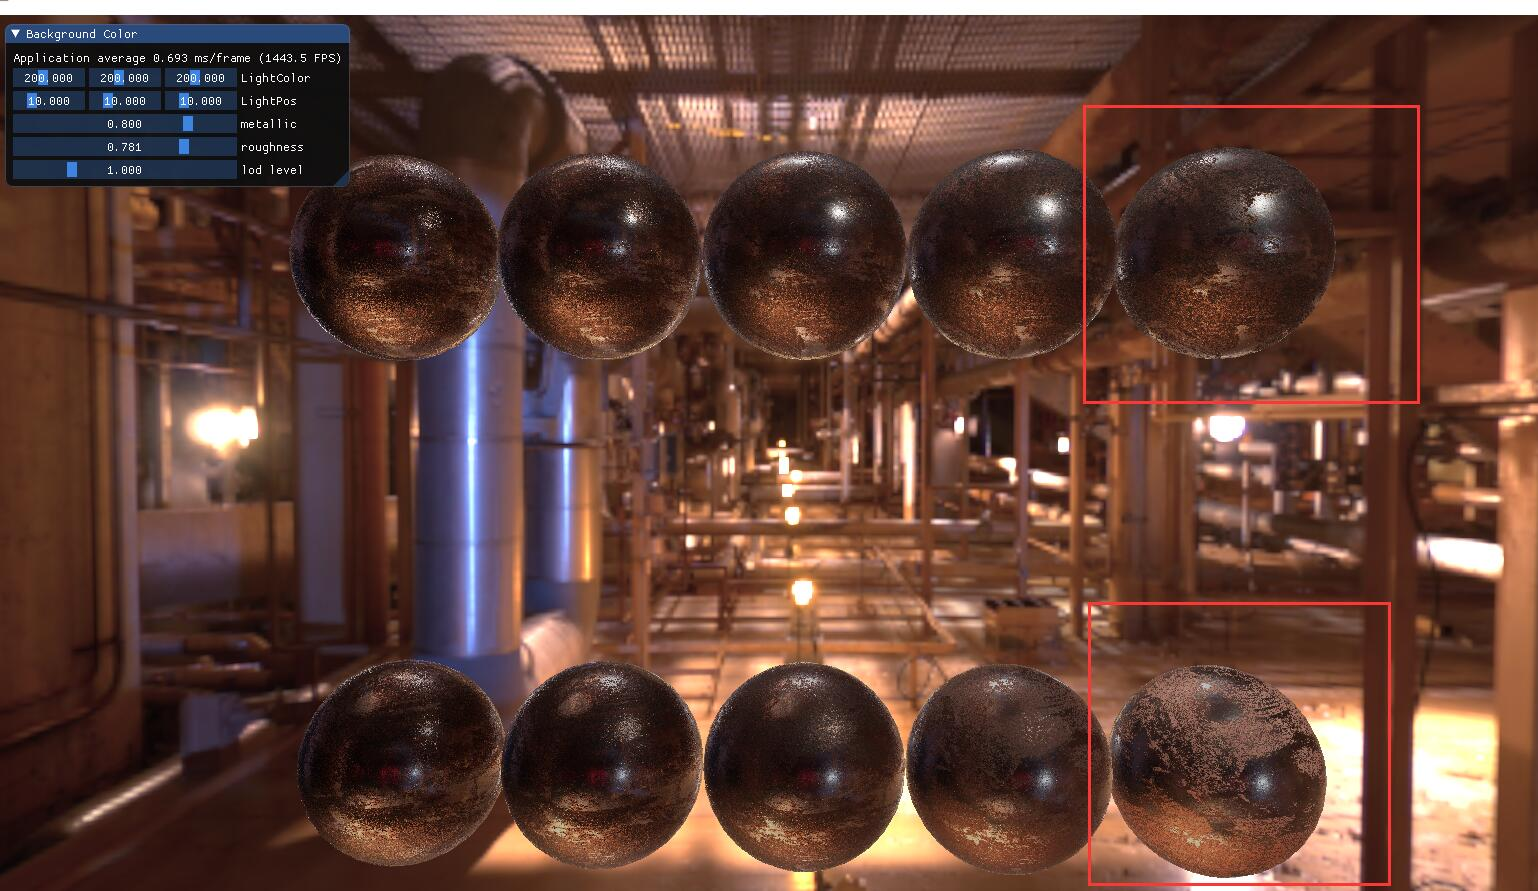
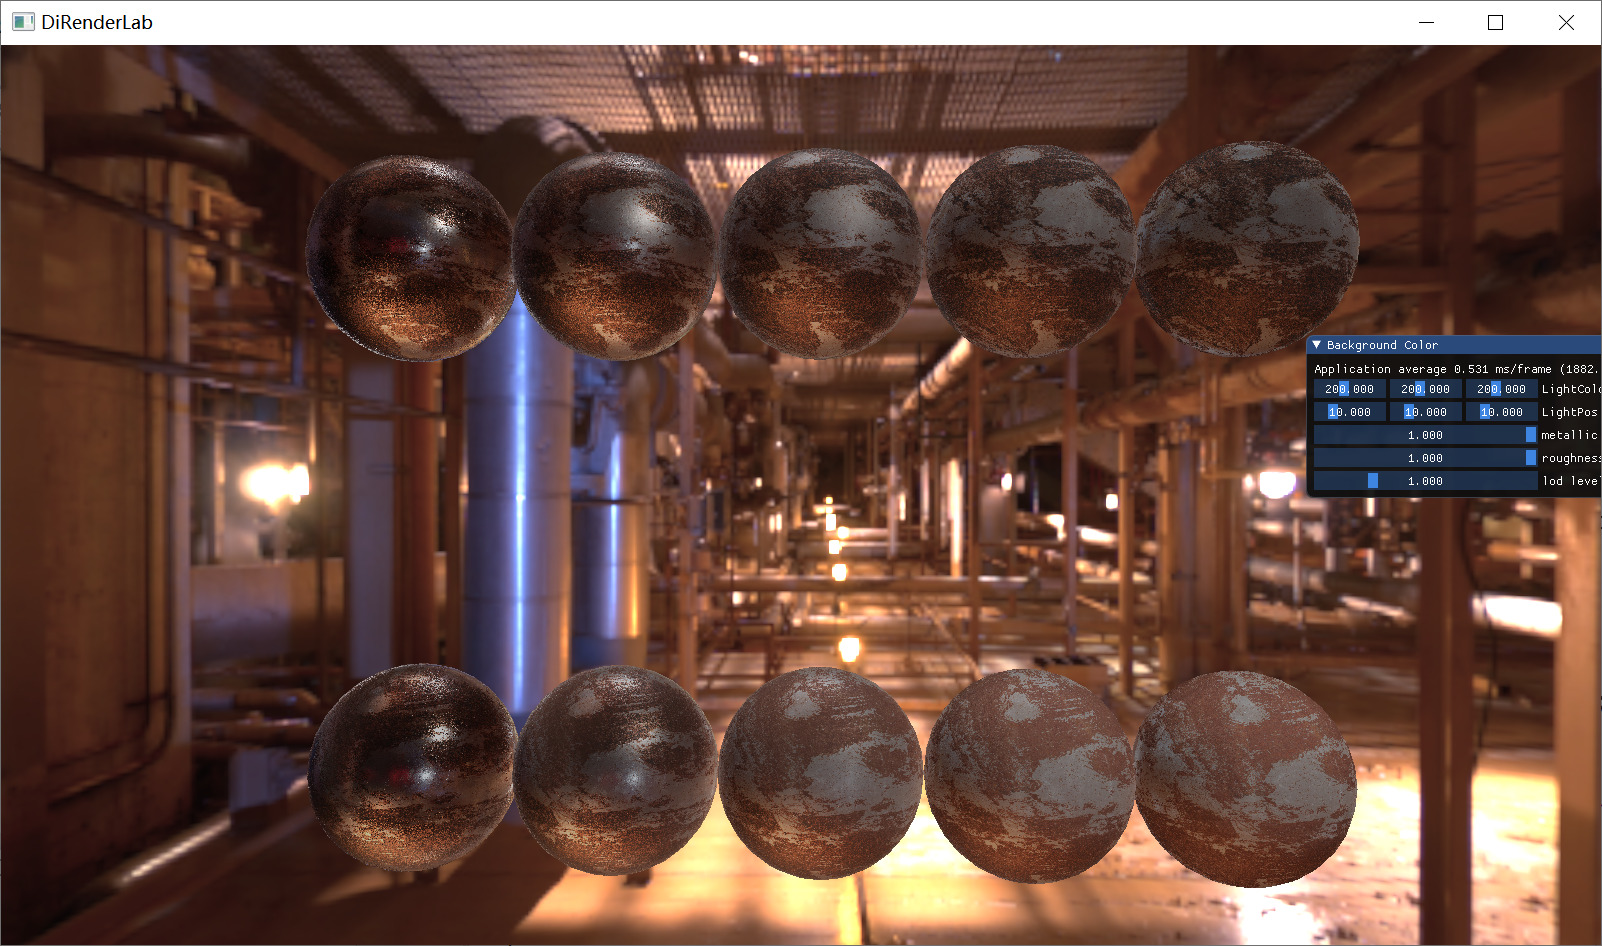
kulla-conty method

diff --git a/examples/pbrRender/pbrRender.cc b/examples/pbrRender/pbrRender.cc
@@ -124,6 +124,7 @@ void PbrRender::render() {
                           uniform_.prefilterCubemap->tex_handle_ARB());
     pbrKCShader.set_uniform("brdfMap", uniform_.brdfMap->tex_handle_ARB());
     pbrKCShader.set_uniform("brdfAvgMap", uniform_.brdfAvgMap->tex_handle_ARB());
+    pbrKCShader.set_uniform("brdfMuMap", uniform_.brdfMuMap->tex_handle_ARB());
     pbrKCShader.set_uniform("lightPosition", uniform_.lightPos);
     pbrKCShader.set_uniform("lightColor", uniform_.lightColor);
     pbrKCShader.set_uniform("u_metallic_index", uniform_.metallic_index);
@@ -239,8 +240,12 @@ void PbrRender::setup_states() {
   uniform_.envCubemap->make_resident();
 
   uniform_.brdfAvgMap = std::make_shared<DRL::Texture2DARB>(
-      resMgr.find_path("GGX_Eavg_LUT.png").string(), 1, false, false);
+      resMgr.find_path("GGX_Eavg_LUT.png").string(), 1, false, true);
   uniform_.brdfAvgMap->make_resident();
+
+  uniform_.brdfMuMap = std::make_shared<DRL::Texture2DARB>(
+      resMgr.find_path("GGX_E_LUT.png").string(), 1, false, true);
+  uniform_.brdfMuMap->make_resident();
 
   glm::mat4 captureProjection =
       glm::perspective(glm::radians(90.0f), 1.0f, 0.1f, 10.0f);

diff --git a/README.md b/README.md
@@ -34,15 +34,10 @@ The Framework is originally based on LearnOpenGL.com. Some code and resources ar
   ![pbr](images/pbr_IBL.jpg)
   
 - PBR(Kulla-conty)
+ 
  work from [siggraph](https://fpsunflower.github.io/ckulla/data/s2017_pbs_imageworks_slides_v2.pdf)
- I believe there is subtle bug in the implementation but the renderdoc fails to work with the OpenGL 4.5.
- Someday I will revisit the implementation with DirectX12 so that I can figure out what's wrong with the code.
- 
- With high roughness there is noticeable enegy loss with Cook-Torrance BRDF. The Kulla-conty method is to precompute the loss energy
- and compensate it with an additional BRDF lobe.
- 
- The second row is with kulla-conty and the last sphere with high roughness value is slightly bright than the first row.
- I believe it is too bright than I expected but anyway it works. Maybe some minor mistakes are in shader code.
+ PBR模型由于不考虑多次反射，在表面粗糙度大的时候会造成能量损失。Kulla-conty方法将损失的能量预计算后补偿回去。
+ 可见第一排不补偿能量随着粗糙度增加逐渐变暗。
  
   ![pbr](images/pbr_kulla_conty.jpg)
 
